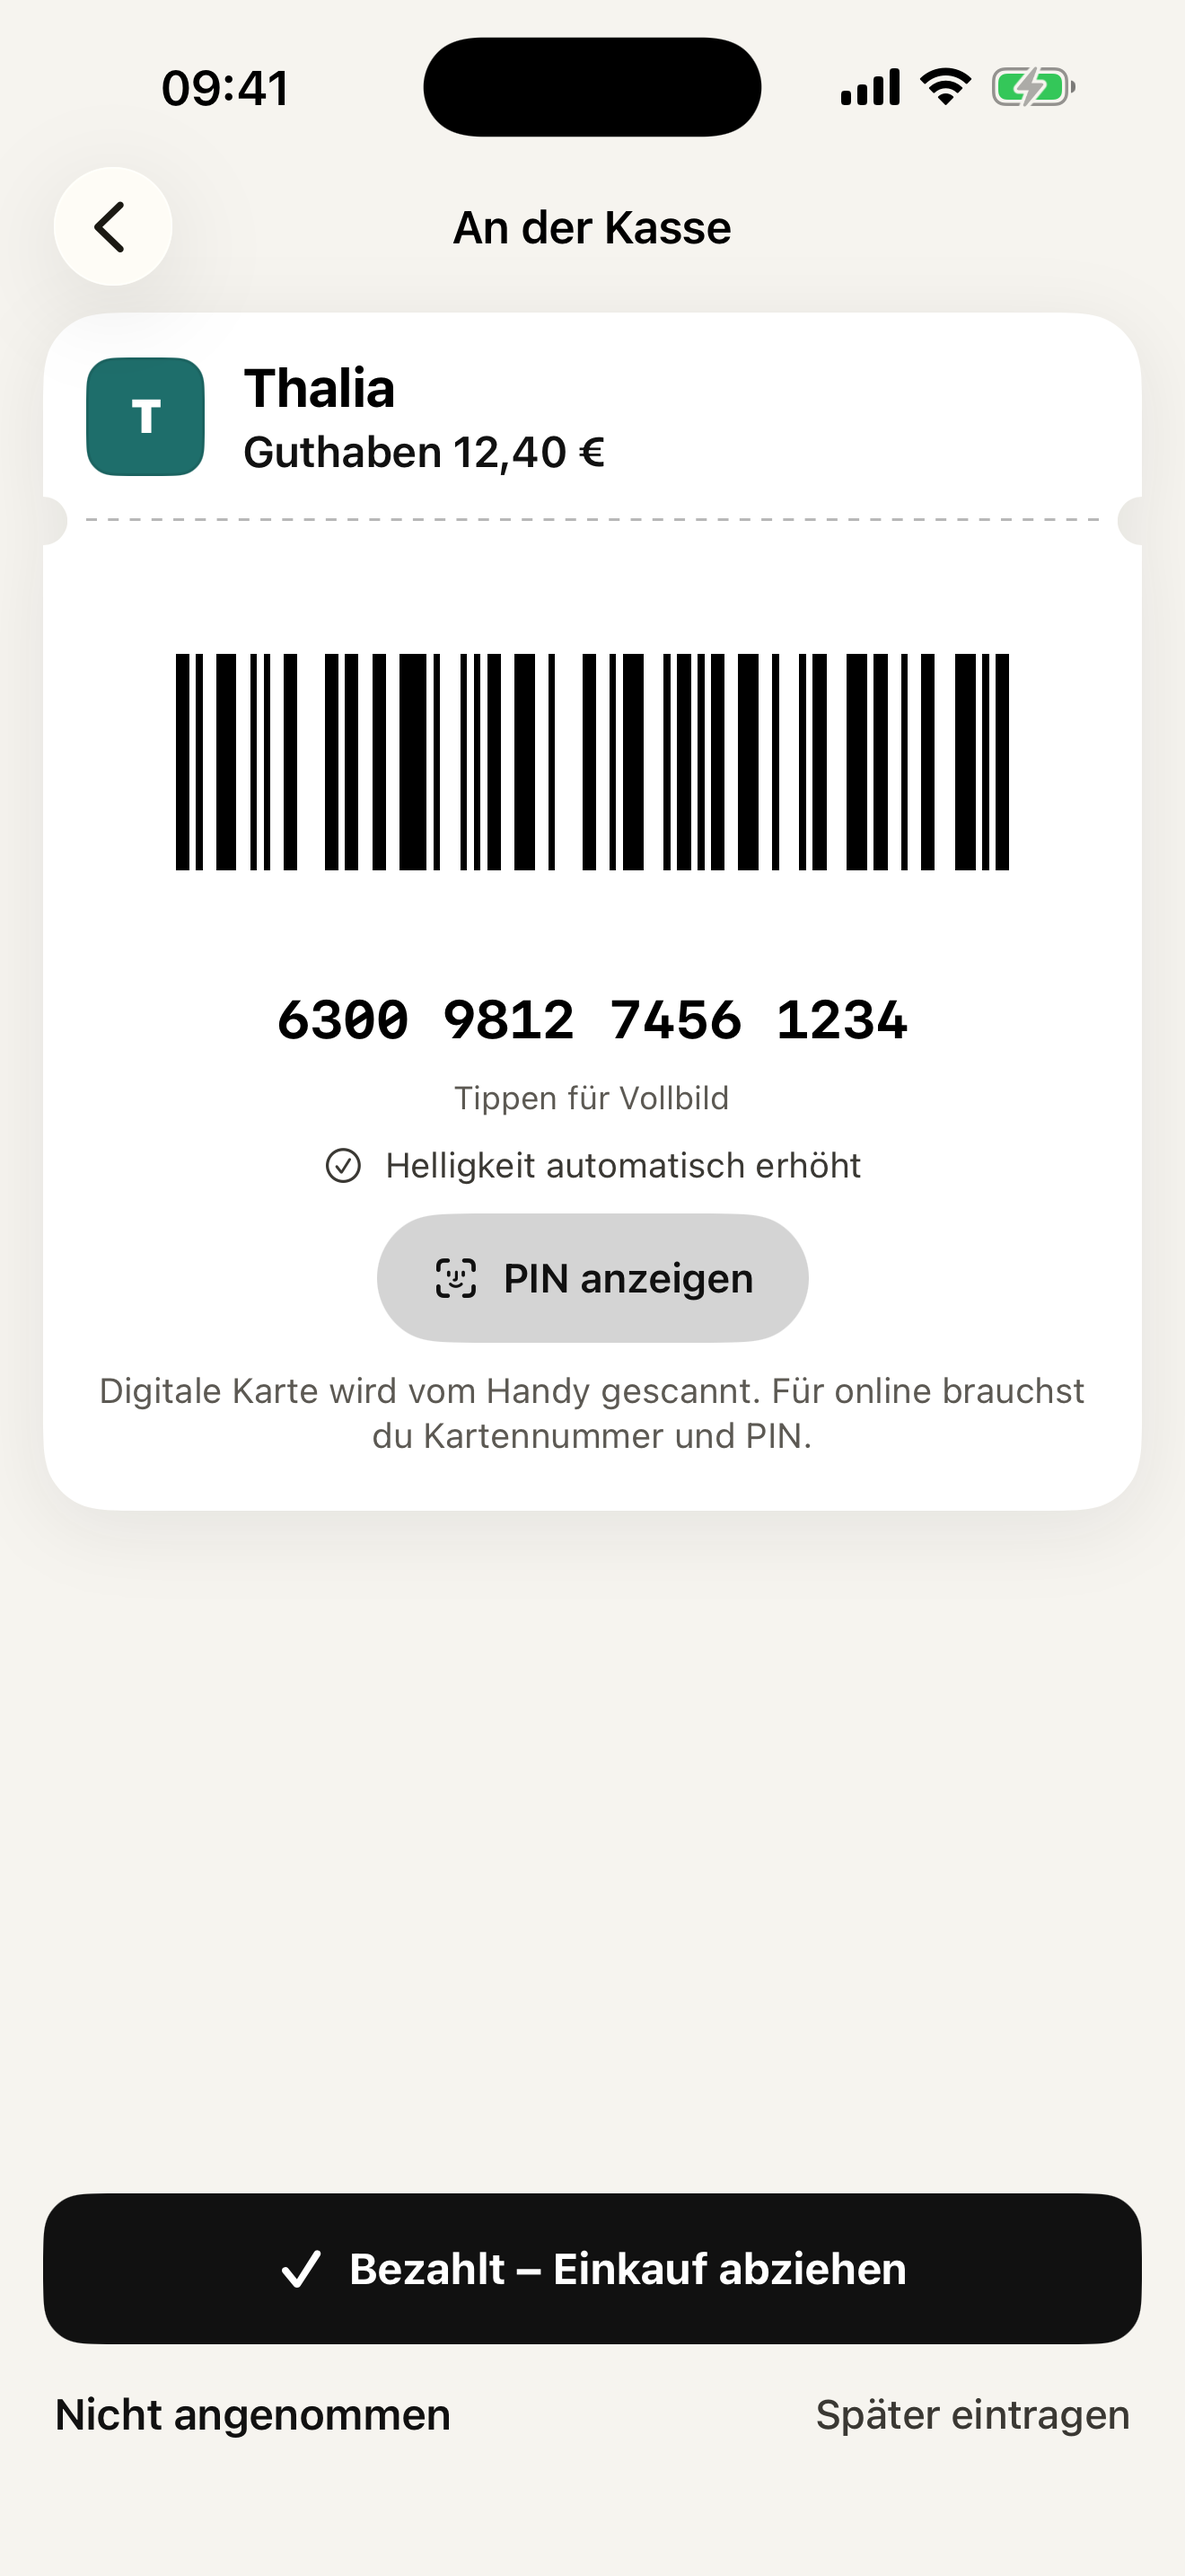
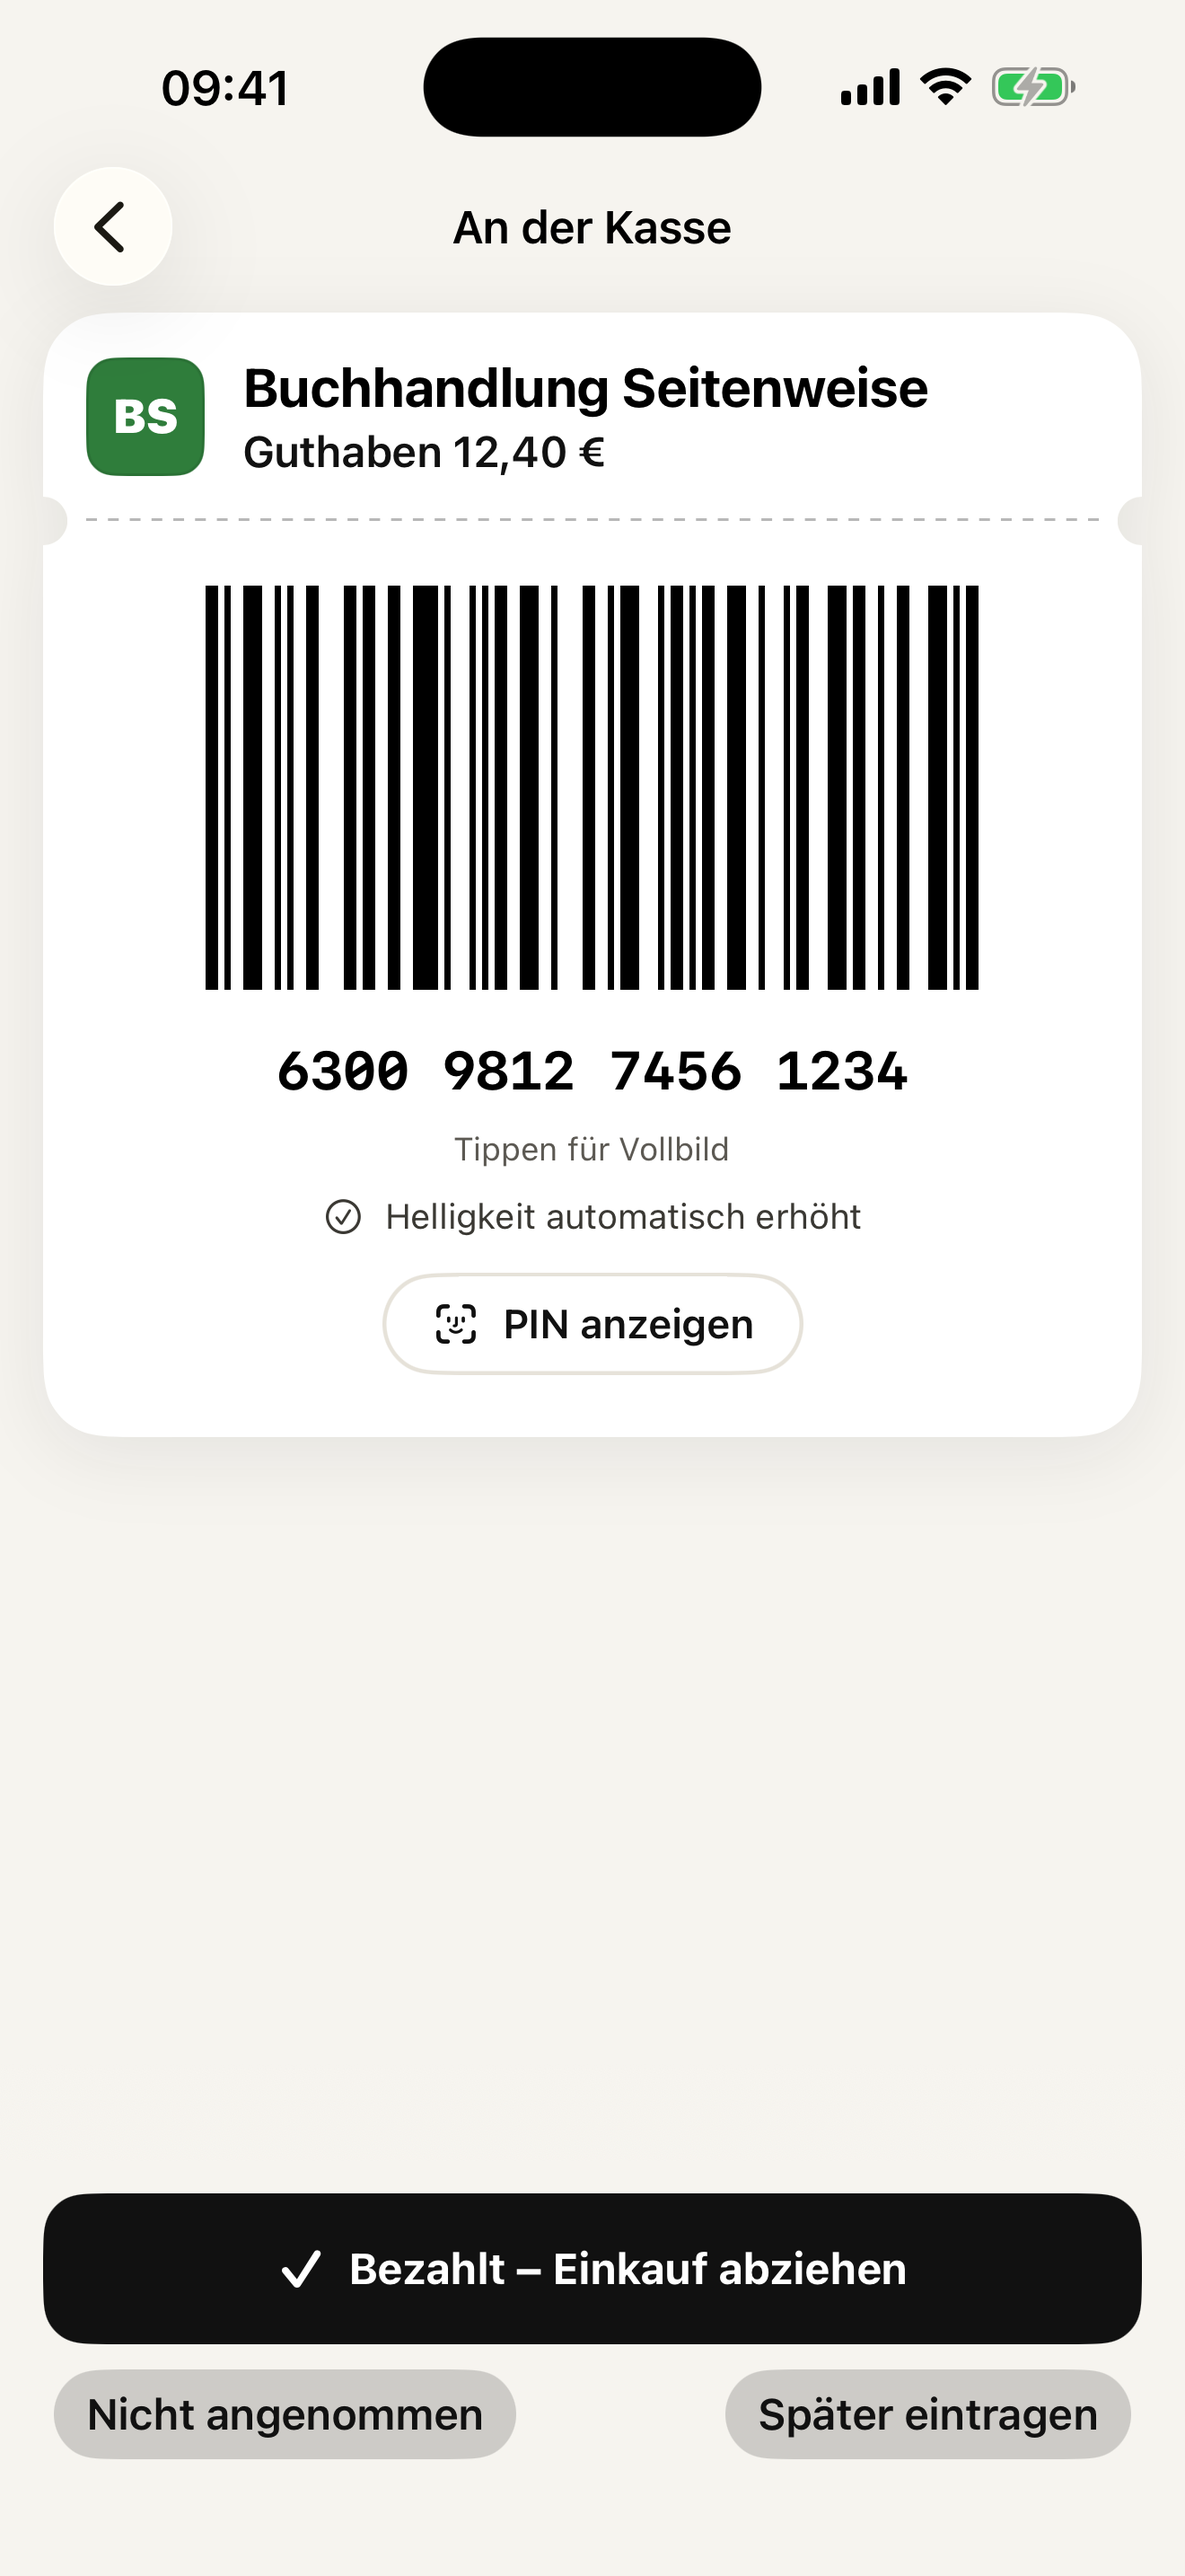
Keine echten Marken mehr in Beispielen, Einstieg und Widget-Vorschau (erfundene Läden); neue App-Store-Screenshots 6,9" mit aktuellem Design inkl. Coupon-Scan, Skript store-screens.sh zum Neuerzeugen

diff --git a/ios/Restwert/App/Store.swift b/ios/Restwert/App/Store.swift
@@ -681,33 +681,34 @@ final class Store {
         func d(_ y: Int, _ m: Int, _ day: Int) -> Date { cal.date(from: DateComponents(year: y, month: m, day: day, hour: 12)) ?? .now }
         func inDays(_ n: Int) -> Date { CalendarDay.noon(cal.date(byAdding: .day, value: n, to: .now) ?? .now) }
 
-        var thalia = GiftCard(merchantID: "thalia", number: "6300981274561234", format: .code128, pin: "4821", value: 25, balance: 25,
+        // Bewusst erfundene Läden: keine echten Marken in Beispielen und Store-Screenshots (Markenrecht).
+        var thalia = GiftCard(merchantID: "other", customName: "Buchhandlung Seitenweise", number: "6300981274561234", format: .code128, pin: "4821", value: 25, balance: 25,
                               received: d(y - 1, 12, 20), expires: d(y + 2, 12, 31), isExample: true)
-        thalia.redeem(12.60, store: "Thalia Beispielstadt", at: inDays(-12))
-        var douglas = GiftCard(merchantID: "douglas", number: "4099875102233441", format: .code128, pin: "1337", value: 40, balance: 40,
+        thalia.redeem(12.60, store: "Beispielstadt", at: inDays(-12))
+        var douglas = GiftCard(merchantID: "other", customName: "Parfümerie Blüte", number: "4099875102233441", format: .code128, pin: "1337", value: 40, balance: 40,
                                received: d(y - 1, 6, 2), expires: d(y + 1, 3, 31), isExample: true)
-        douglas.redeem(16.15, store: "Douglas Beispielstadt", at: inDays(-40))
+        douglas.redeem(16.15, store: "Beispielstadt", at: inDays(-40))
         // Empfangsdaten relativ zu heute, damit sie nie in der Zukunft liegen.
         let newsletter = inDays(-25)
-        let discount = GiftCard(kind: .discountCode, merchantID: "zalando", number: "HERBST15-K7Q2", format: .text, value: 0, balance: 0,
+        let discount = GiftCard(kind: .discountCode, merchantID: "other", customName: "Modehaus Kranz", number: "HERBST15-K7Q2", format: .text, value: 0, balance: 0,
                                 percent: 15, received: newsletter, expires: inDays(12), location: .inbox,
                                 locationNote: "Newsletter vom \(newsletter.formatted(.dateTime.day().month(.defaultDigits).locale(Locale(identifier: "de_DE"))))",
                                 isExample: true)
         cards = [
             discount,
-            GiftCard(merchantID: "ikea", number: "6275980123456789012", format: .code128, value: 50, balance: 50,
+            GiftCard(merchantID: "other", customName: "Wohnwerk", number: "6275980123456789012", format: .code128, value: 50, balance: 50,
                      received: d(y - 3, 5, 11), expires: inDays(24), isExample: true),
             thalia,
             douglas,
-            GiftCard(merchantID: "amazon", number: "AQ7K-9XWP-3HTR", format: .text, value: 30, balance: 30,
+            GiftCard(merchantID: "other", customName: "Kaufhaus Lindner", number: "AQ7K-9XWP-3HTR", format: .text, value: 30, balance: 30,
                      received: inDays(-200), expires: d(y + 3, 12, 31), location: .phone, isExample: true),
             GiftCard(merchantID: "stadtgutschein", number: "SG-2291-7730", format: .qr, value: 20, balance: 20,
                      received: inDays(-260), expires: inDays(140), location: .wallet, isExample: true),
         ]
         tests = [
-            TestResult(merchantID: "thalia", merchantName: "Thalia", date: .now, success: true, store: "Beispielstadt",
+            TestResult(merchantID: "other", merchantName: "Buchhandlung Seitenweise", date: .now, success: true, store: "Beispielstadt",
                        format: .code128, amount: 12.60, isExample: true),
-            TestResult(merchantID: "douglas", merchantName: "Douglas", date: .now, success: false, store: "Beispielstadt",
+            TestResult(merchantID: "other", merchantName: "Parfümerie Blüte", date: .now, success: false, store: "Beispielstadt",
                        note: "Kasse wollte Plastikkarte", format: .code128, isExample: true),
         ]
     }

diff --git a/ios/Restwert/Features/Onboarding/OnboardingView.swift b/ios/Restwert/Features/Onboarding/OnboardingView.swift
@@ -396,14 +396,14 @@ private struct CollectPage: View {
     @State private var step = 0
 
     private let rows: [(id: String, name: String, due: String, amount: String, sub: String)] = [
-        ("zalando", "Zalando", "bis 09.10.2026", "15\u{00A0}%", "Rabatt"),
-        ("ikea", "IKEA", "bis 21.10.2026", "50,00\u{00A0}€", "von 50,00\u{00A0}€"),
+        ("other", "Modehaus Kranz", "bis 09.10.2026", "15\u{00A0}%", "Rabatt"),
+        ("other", "Wohnwerk", "bis 21.10.2026", "50,00\u{00A0}€", "von 50,00\u{00A0}€"),
         ("stadtgutschein", "Stadtgutschein", "bis 14.02.2027", "20,00\u{00A0}€", "von 20,00\u{00A0}€"),
     ]
 
     var body: some View {
         PageFrame(title: "Alles an einem Ort.",
-                  text: "Egal ob Zalando, IKEA oder der Blumenladen um die Ecke: Gutschein rein, Guthaben drauf, fertig. An der Kasse zeigst du den Code groß und ziehst ab, was du bezahlt hast.",
+                  text: "Egal ob Modehaus, Möbelhaus oder der Blumenladen um die Ecke: Gutschein rein, Guthaben drauf, fertig. An der Kasse zeigst du den Code groß und ziehst ab, was du bezahlt hast.",
                   active: active) {
             VStack(spacing: 0) {
                 ForEach(Array(rows.enumerated()), id: \.offset) { i, row in
@@ -457,7 +457,7 @@ private struct RemindPage: View {
                             Spacer()
                             Text("jetzt").font(.scaled(13)).foregroundStyle(Color.muted)
                         }
-                        Text("Zalando läuft in 12\u{00A0}Tagen ab").font(.scaled(15, weight: .semibold))
+                        Text("Modehaus Kranz läuft in 12\u{00A0}Tagen ab").font(.scaled(15, weight: .semibold))
                         Text("15\u{00A0}% Rabatt, noch nicht eingelöst. Jetzt nutzen?").font(.scaled(15)).foregroundStyle(Color.ink2)
                             .fixedSize(horizontal: false, vertical: true)
                     }
@@ -470,9 +470,9 @@ private struct RemindPage: View {
                 .zIndex(1)
 
                 HStack(spacing: 14) {
-                    MerchantMark(merchantID: "zalando", name: "Zalando")
+                    MerchantMark(merchantID: "other", name: "Modehaus Kranz")
                     VStack(alignment: .leading, spacing: 3) {
-                        Text("Zalando").font(.scaled(16, weight: .semibold))
+                        Text("Modehaus Kranz").font(.scaled(16, weight: .semibold))
                         Label { Text("noch 12 Tage") } icon: { Image(systemName: "clock") }
                             .labelStyle(DueLabelStyle())
                             .font(.scaled(13, weight: .semibold)).foregroundStyle(Color.warn)

diff --git a/ios/Restwert/App/RestwertApp.swift b/ios/Restwert/App/RestwertApp.swift
@@ -352,10 +352,10 @@ extension Router {
             func day(_ d: Int) -> Date { cal.date(byAdding: .day, value: d, to: .now) ?? .now }
             let specs: [(String, String, Double, Double?, Int)] = [
                 ("other", "Stadler", 25, nil, 11), ("other", "KM Kaffee", 25, nil, 400),
-                ("amazon", "", 70, nil, 900), ("other", "Buchladen", 25.15, nil, 1000), ("zalando", "", 0, 20, 820)]
+                ("other", "Kaufhaus Lindner", 70, nil, 900), ("other", "Buchladen", 25.15, nil, 1000), ("other", "Modehaus Kranz", 0, 20, 820)]
                 // `-demoManyDue YES`: dazu drei weitere bald ablaufende (mehr als drei Karten in „Läuft bald ab“).
                 + (UserDefaults.standard.bool(forKey: "demoManyDue")
-                   ? [("ikea", "", 50, nil, 19), ("douglas", "", 30, nil, 6), ("other", "Kino am Markt", 15, nil, 27)] : [])
+                   ? [("other", "Wohnwerk", 50, nil, 19), ("other", "Parfümerie Blüte", 30, nil, 6), ("other", "Kino am Markt", 15, nil, 27)] : [])
             for (id, name, value, percent, d) in specs {
                 var c = GiftCard(kind: percent == nil ? .giftCard : .discountCode, merchantID: id, customName: name, number: "RADAR\(d)",
                                  format: .code128, value: value, balance: value, percent: percent, received: .now, expires: day(d))

diff --git a/ios/Restwert/Features/Checkout/CheckoutView.swift b/ios/Restwert/Features/Checkout/CheckoutView.swift
@@ -613,6 +613,10 @@ struct KeypadView: View {
         .readableWidth()
         .toolbar(.hidden, for: .tabBar)
         .navigationTitle(store.card(cardID)?.name ?? "Einkauf")
+        #if DEBUG
+        // Nur für Store-Bilder: `-demoKeypad 7,80` zeigt einen eingetippten Betrag.
+        .onAppear { if input.isEmpty, let v = UserDefaults.standard.string(forKey: "demoKeypad") { input = v } }
+        #endif
         .navigationBarTitleDisplayMode(.inline)
         .sheet(item: $usedUp, onDismiss: finishUsedUp) { UsedUpSheet(info: $0) }
     }
@@ -655,7 +659,7 @@ struct KeypadView: View {
             }
             Group {
                 if showStore {
-                    LabeledField(label: "Filiale (für deinen Verlauf)", placeholder: "z.\u{00A0}B. Thalia Köln", text: $storeName)
+                    LabeledField(label: "Filiale (für deinen Verlauf)", placeholder: "z.\u{00A0}B. Köln Hohe Straße", text: $storeName)
                 } else {
                     Button("+ Filiale notieren") { withAnimation(.snappy) { showStore = true } }
                         .font(.scaled(15, weight: .medium)).foregroundStyle(Color.ink2)

diff --git a/ios/RestwertWidget/RestwertWidget.swift b/ios/RestwertWidget/RestwertWidget.swift
@@ -52,8 +52,8 @@ struct WidgetSnapshot: Codable {
     static var sample: WidgetSnapshot {
         let day = { (d: Double) in Date.now.addingTimeInterval(d * 86_400) }
         return WidgetSnapshot(items: [
-            Item(id: "", name: "Zalando", headline: "15\u{00A0}%", expires: day(12), color: "FF6900"),
-            Item(id: "", name: "IKEA", headline: "50,00\u{00A0}€", expires: day(24), amount: 50, color: "0058A3"),
+            Item(id: "", name: "Modehaus Kranz", headline: "15\u{00A0}%", expires: day(12), color: "B45309"),
+            Item(id: "", name: "Wohnwerk", headline: "50,00\u{00A0}€", expires: day(24), amount: 50, color: "15803D"),
             Item(id: "", name: "Stadtgutschein", headline: "20,00\u{00A0}€", expires: day(140), amount: 20, color: "52525B"),
         ], updated: .now)
     }

diff --git a/ios/scripts/store-frame.py b/ios/scripts/store-frame.py
@@ -1,0 +1,42 @@
+#!/usr/bin/env python3
+"""App-Store-Bild: Überschrift + Unterzeile über einem gerahmten iPhone-Screenshot (1320 × 2868, 6,9").
+Aufruf: store-frame.py <roh.png> <ziel.png> "<Überschrift, \\n für Umbruch>" "<Unterzeile>" [dark]"""
+import sys
+from PIL import Image, ImageDraw, ImageFont
+
+W, H = 1320, 2868
+raw, out, title, sub = sys.argv[1:5]
+dark = len(sys.argv) > 5 and sys.argv[5] == "dark"
+bg, ink, ink2, rim = ((20, 20, 19), (245, 243, 238), (170, 168, 162), (60, 60, 58)) if dark \
+    else ((244, 242, 236), (17, 17, 17), (84, 84, 80), (17, 17, 17))
+
+def font(path, style, size):
+    f = ImageFont.truetype(path, size)
+    f.set_variation_by_name(style)
+    return f
+
+canvas = Image.new("RGB", (W, H), bg)
+d = ImageDraw.Draw(canvas)
+x, y = 96, 170
+head = font("/System/Library/Fonts/SFNSRounded.ttf", "Heavy", 124)
+for line in title.split("\\n"):
+    d.text((x, y), line, font=head, fill=ink)
+    y += 138
+y += 18
+d.text((x, y), sub, font=font("/System/Library/Fonts/SFNS.ttf", "Regular", 48), fill=ink2)
+
+# Telefon: Screenshot mit runden Ecken und dunklem Rand, unten angeschnitten.
+shot = Image.open(raw).convert("RGB")
+pw = 1066
+ph = round(shot.height * pw / shot.width)
+shot = shot.resize((pw, ph), Image.LANCZOS)
+top, border, radius = y + 150, 12, 150
+px = (W - pw) // 2
+frame = Image.new("RGB", (pw + 2 * border, ph + 2 * border), rim)
+fmask = Image.new("L", frame.size, 0)
+ImageDraw.Draw(fmask).rounded_rectangle((0, 0, *frame.size), radius=radius + border, fill=255)
+canvas.paste(frame, (px - border, top - border), fmask)
+smask = Image.new("L", shot.size, 0)
+ImageDraw.Draw(smask).rounded_rectangle((0, 0, *shot.size), radius=radius, fill=255)
+canvas.paste(shot, (px, top), smask)
+canvas.save(out, optimize=True)

diff --git a/docs/appstore/README.md b/docs/appstore/README.md
@@ -76,12 +76,11 @@ Erste Version im App Store.
 
 ## Screenshots
 
-`screenshots/` enthält 7 Bilder in 1320 × 2868 (6,9", Pflichtgröße; Apple skaliert sie für kleinere iPhones).
-In dieser Reihenfolge hochladen: 01_start, 02_checkout, 03_detail, 04_radar, 05_keypad, 06_scan, 07_start_dunkel.
-`screenshots/raw/` sind die unbearbeiteten Simulator-Aufnahmen.
+`screenshots/` enthält 7 Bilder in 1320 × 2868 (6,9", Pflichtgröße; Apple skaliert sie für kleinere iPhones). Nur iPhone – keine iPad-Bilder nötig.
+In dieser Reihenfolge hochladen: 01_start, 02_checkout, 03_scan, 04_detail, 05_radar, 06_keypad, 07_start_dunkel.
+`screenshots/raw/` sind die unbearbeiteten Simulator-Aufnahmen. Neu erzeugen: `cd ios && scripts/store-screens.sh`.
 
-Hinweis: Die Bilder zeigen Namen echter Läden (Thalia, IKEA, Zalando …) mit Buchstaben-Kacheln, keine Logos.
-Das ist üblich, kann in der Prüfung (Richtlinie 5.2.1) aber nachgefragt werden. Wer auf Nummer sicher gehen will, ersetzt die Beispieldaten für die Bilder durch erfundene Läden.
+Alle Läden in Bildern, Beispielen und Einstieg sind erfunden (Modehaus Kranz, Wohnwerk, Buchhandlung Seitenweise, Parfümerie Blüte, Kaufhaus Lindner, Café Krone) – keine echten Marken (Richtlinie 5.2.1).
 
 ## App-Datenschutz („Nutrition Label“)
 
@@ -98,7 +97,7 @@ In `Restwert-Info.plist` steht `ITSAppUsesNonExemptEncryption = NO`. Die App nut
 
 - Anmeldung: nicht nötig. „Mit Apple anmelden“ ist optional (Einstieg Seite 4 mit „Später“ überspringbar, Einstellungen → Konto), legt kein Server-Konto an und fragt nur den Namen ab; Kennung und Name bleiben auf dem Gerät. „Abmelden“ bzw. „Alles löschen“ entfernen sie – daher keine Kontolöschung nach 5.1.1(v) nötig. Alle Funktionen gehen ohne Anmeldung.
 - Beim ersten Start zeigt die App Beispiel-Gutscheine. Damit lassen sich alle Funktionen ohne eigene Daten ausprobieren (Detail, „An der Kasse zeigen“, Einkauf abziehen, Verfallsradar).
-- Scannen braucht eine Kamera. Alternativ „Hinzufügen → Aus dem Text einer E-Mail“ mit z. B. „Thalia Gutschein 25,00 € Code 6300981274561234 gültig bis 31.12.2027“.
+- Scannen braucht eine Kamera. Alternativ „Hinzufügen → Aus dem Text einer E-Mail“ mit z. B. „Buchhandlung Seitenweise Gutschein 25,00 € Code 6300981274561234 gültig bis 31.12.2027“.
 - iCloud-Sync ist optional und in den Einstellungen abschaltbar.
 - Kontakt: Julian Heinrich, info@maitr.de, +49 176 3211307
 
